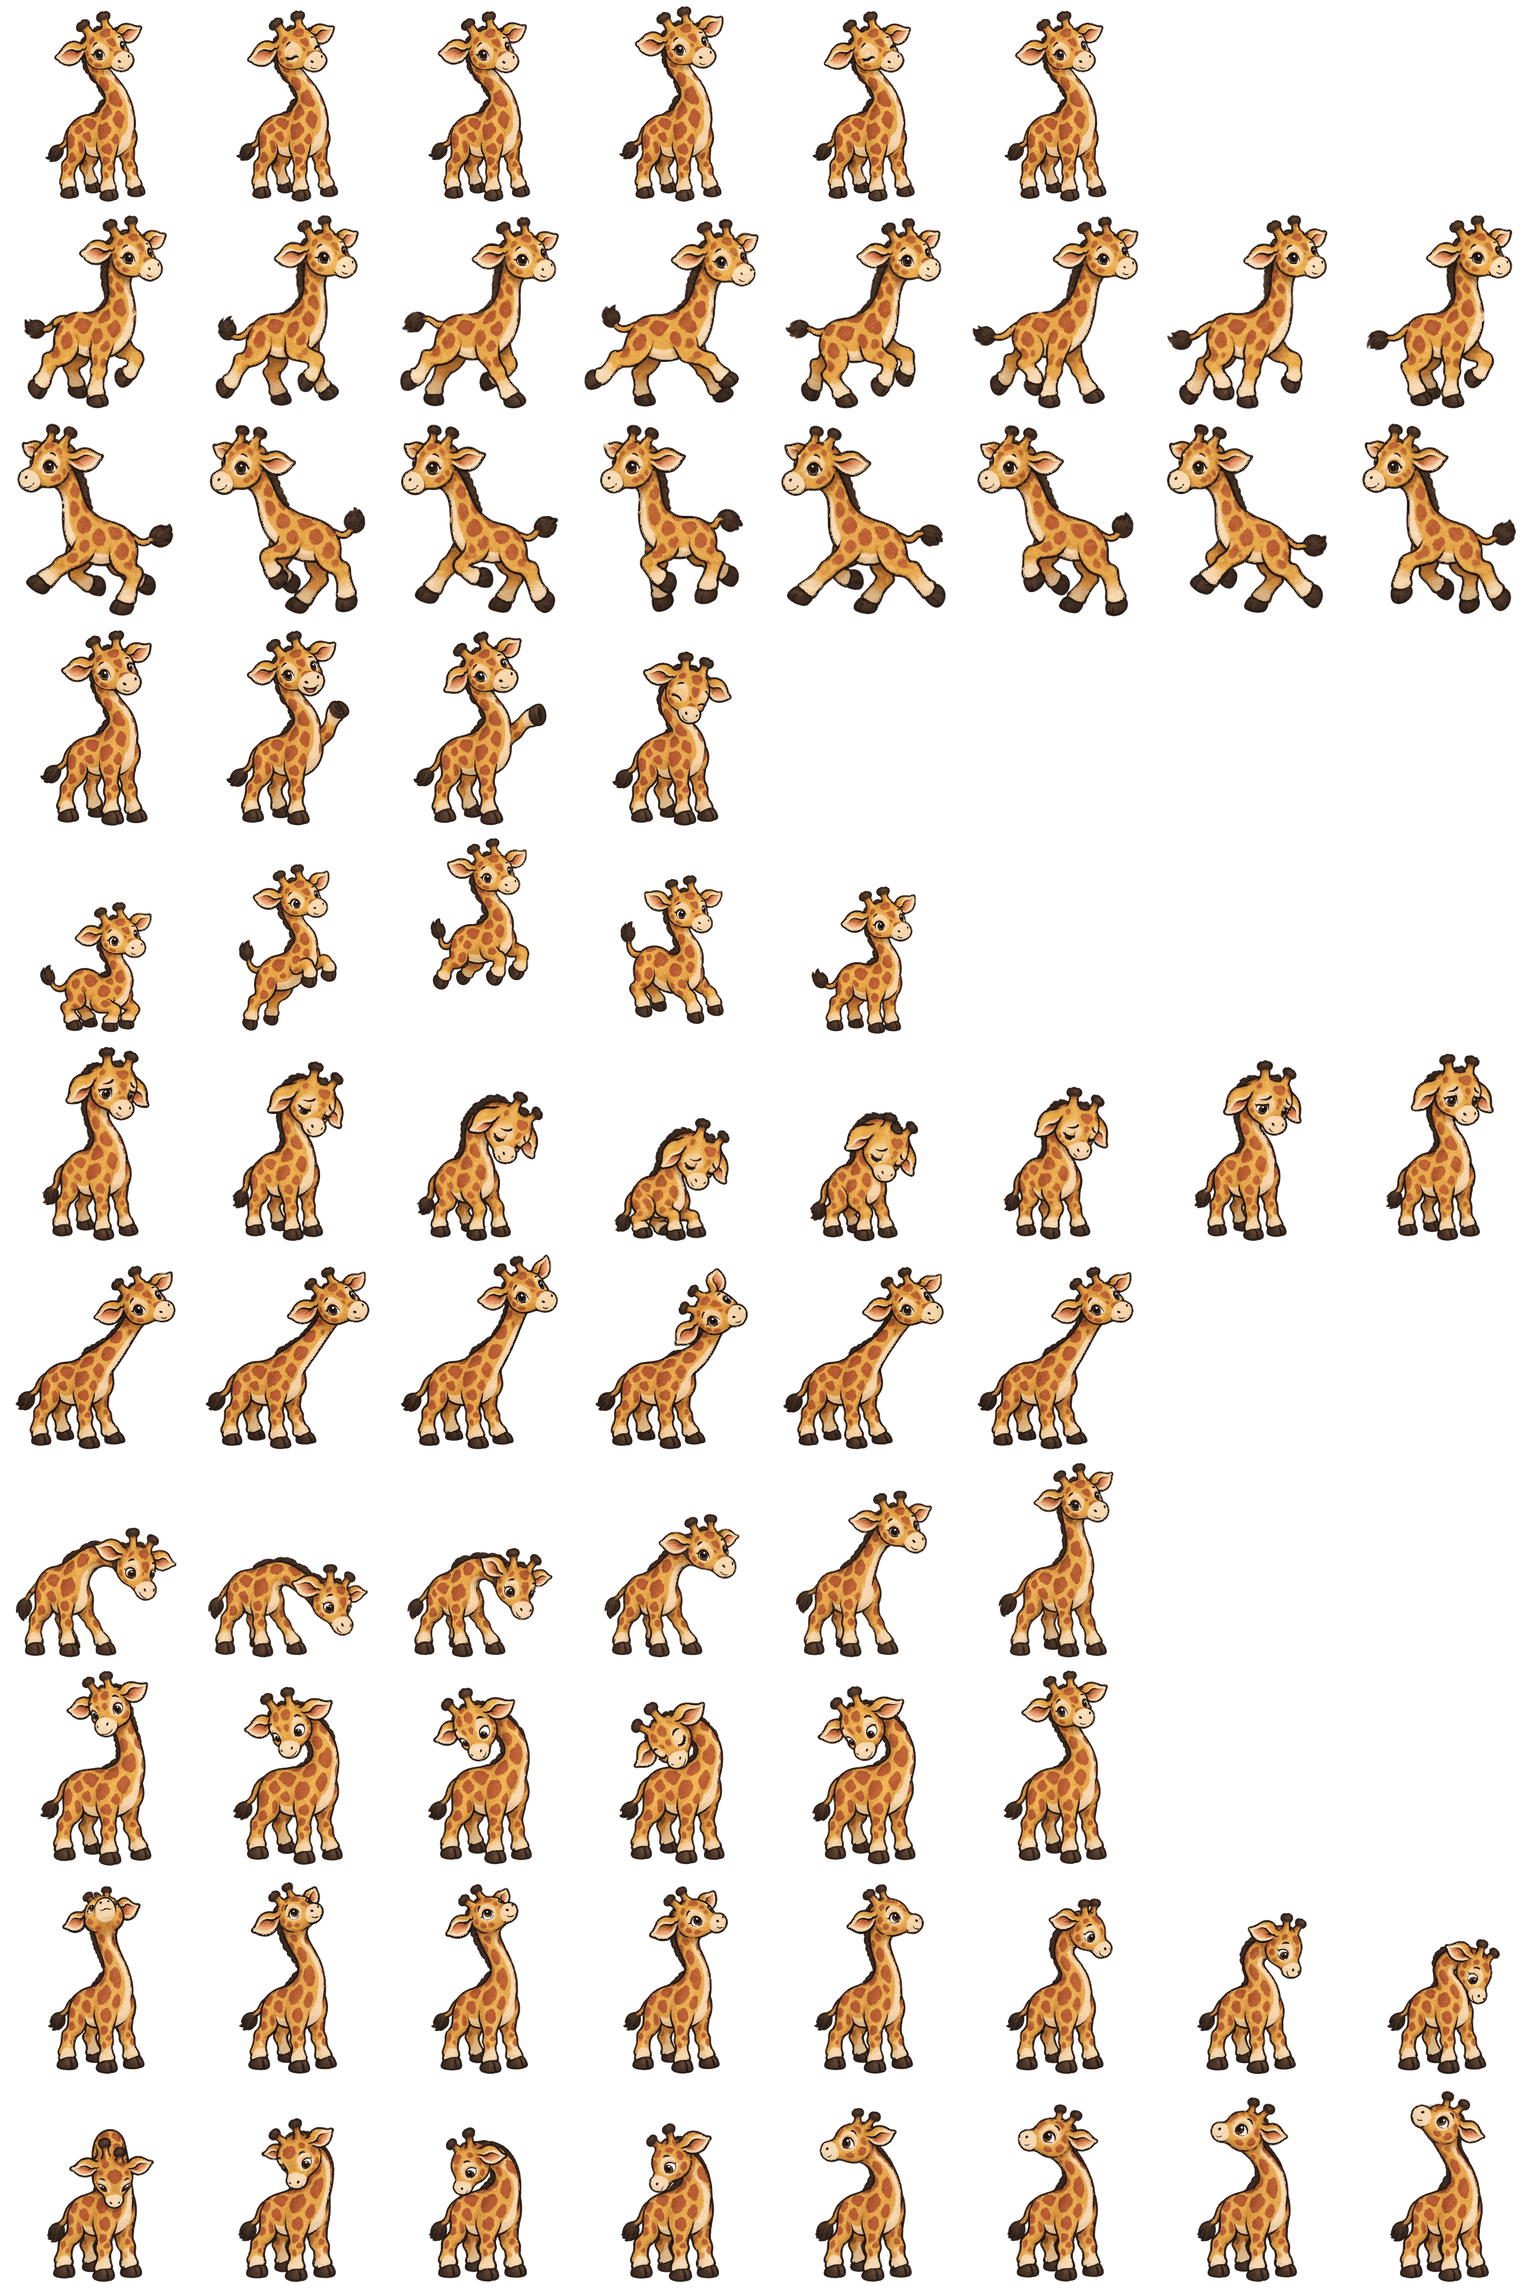
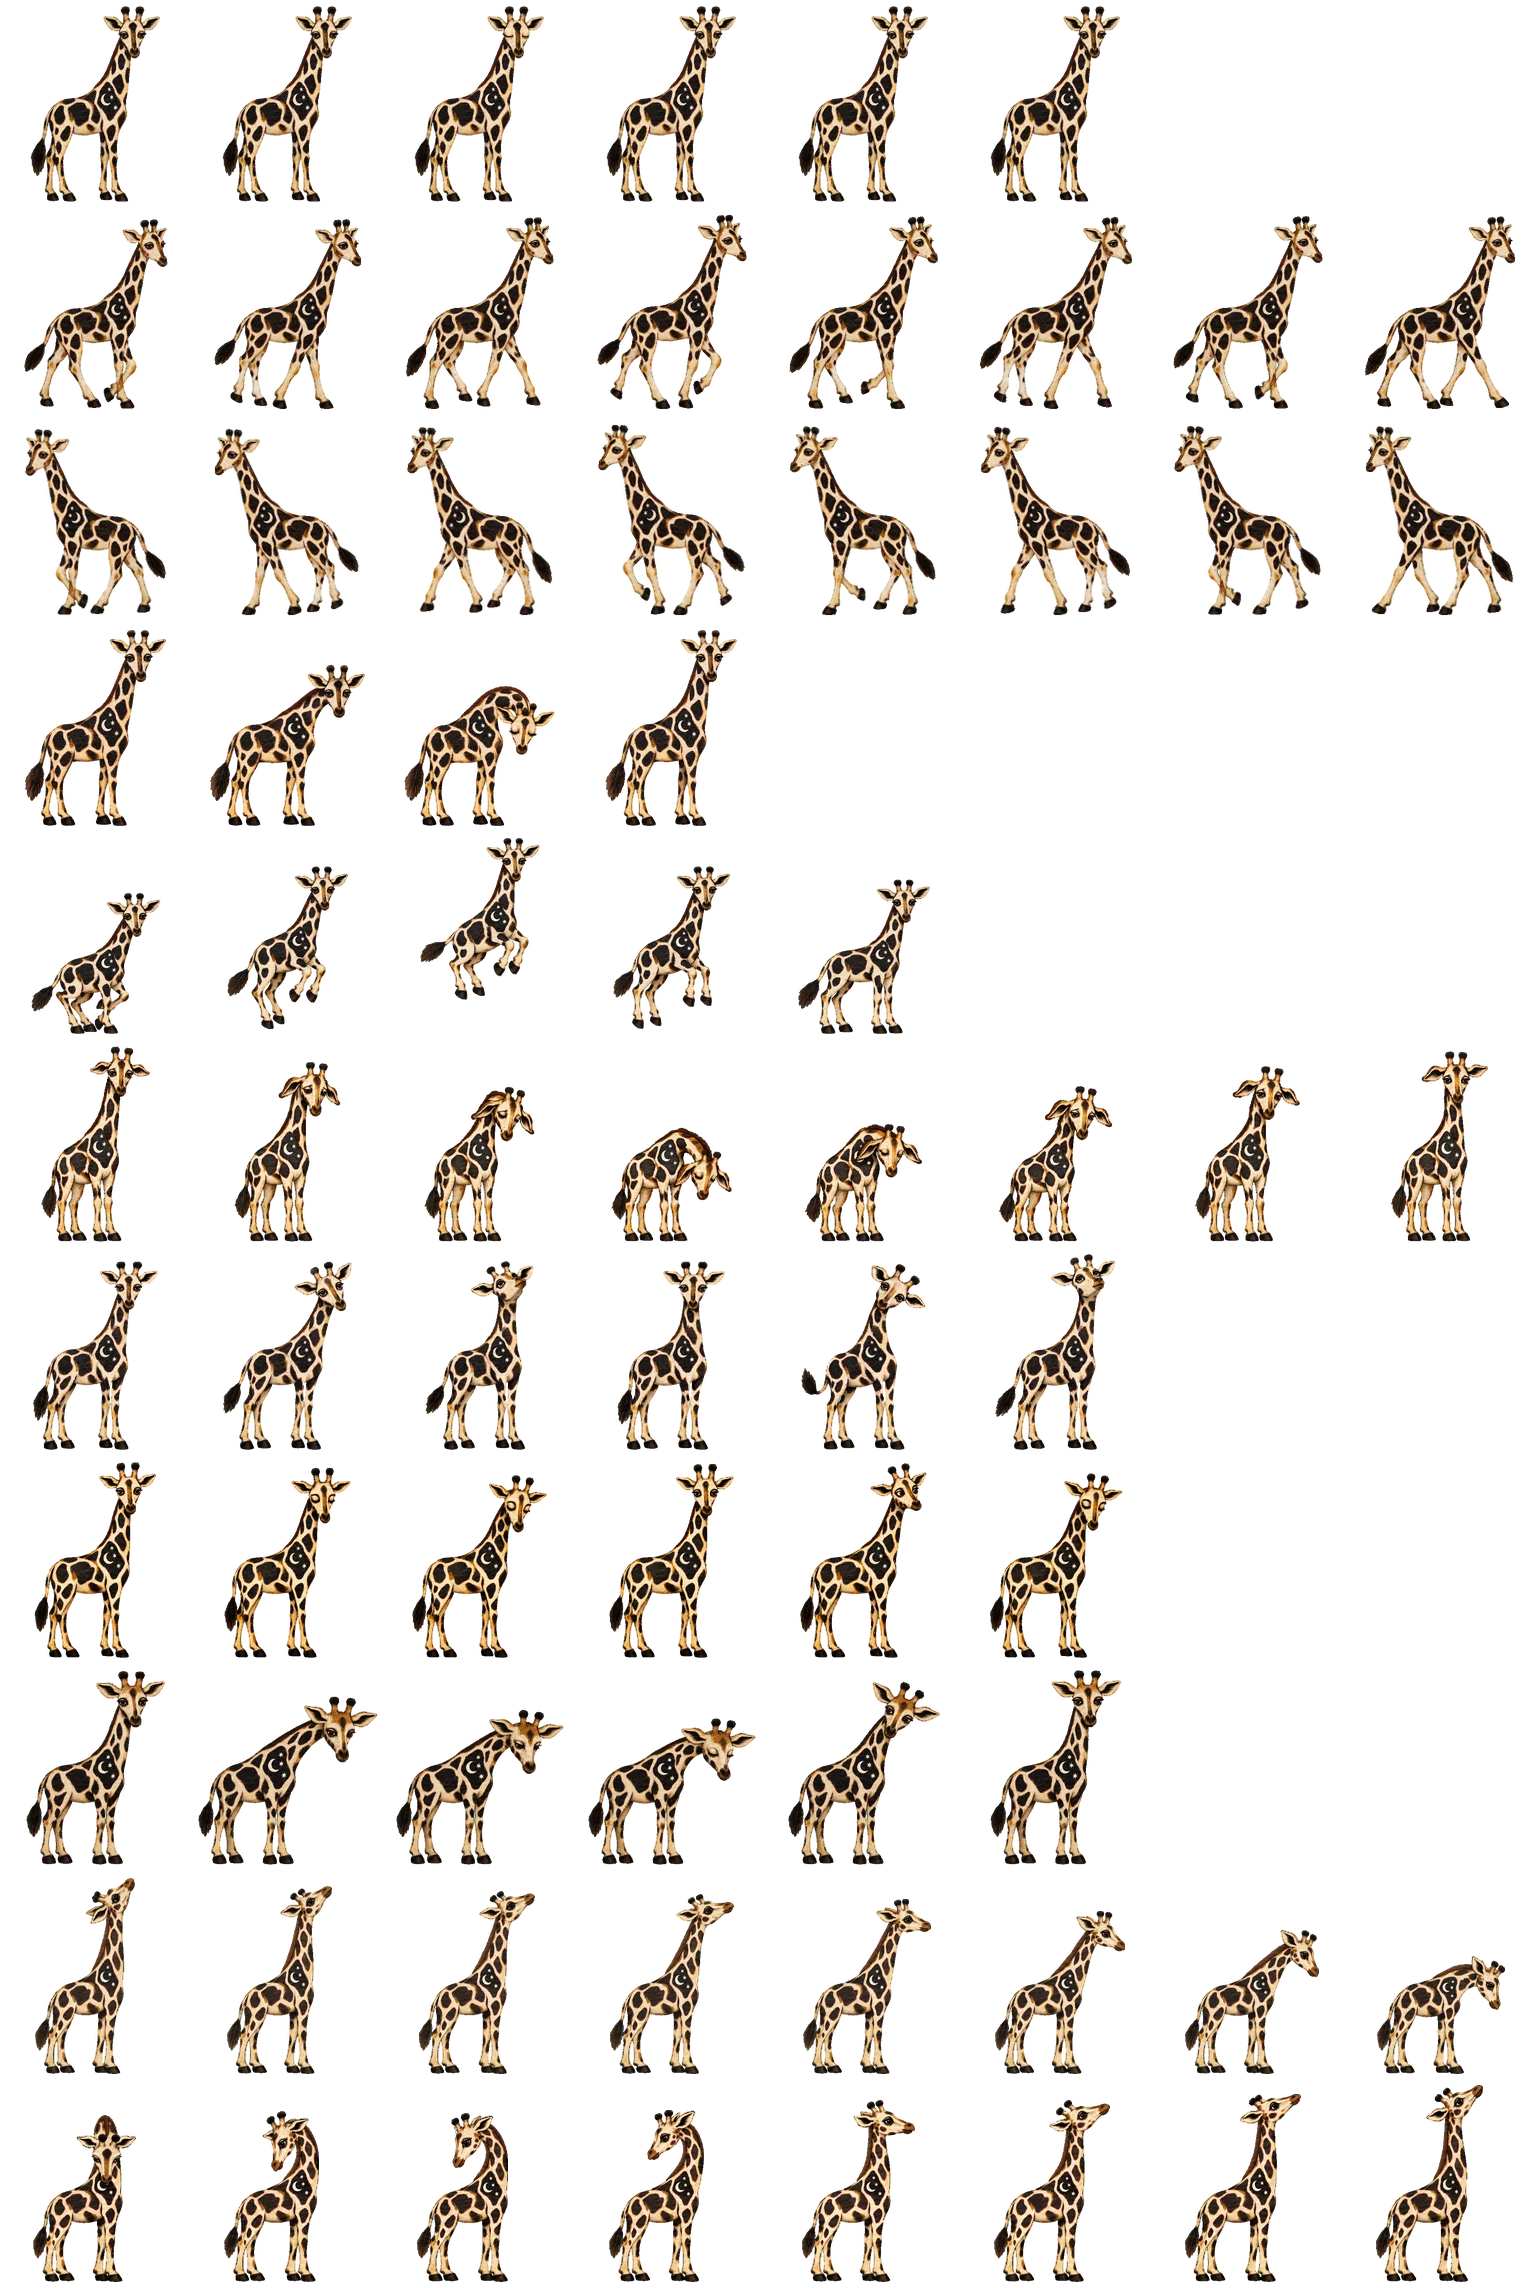
Pets: Niko redrawn as Pirosmani painted [skip ci]
Paul signed off the sheet (P1): a cream-white giraffe on black oilcloth, the
black left showing as his patches, a crescent and stars on his shoulder; the
idle calmed to one blink after "He's kinda tweaking". Lossy WebP q88, alpha
bit-identical. pet-metrics.json and the making-of golden regenerated.

diff --git a/docs/marginarium-pets.md b/docs/marginarium-pets.md
@@ -174,12 +174,15 @@ waving cells at native size and 5x, on white and dark, showed no banding, halo o
[6 lines of base64/hex data omitted]
 
 The Glassblower's redraw (Paul: "Both good") replaced the factory's droplet the same day: a
-clearer drop with a curling tip and a warm light inside. The twenty-four sheets total
-**19,657,940 bytes (18.75 MiB)** of the 24 MiB budget. Dino's and the Glassblower's first sheets,
-in the table above, no longer ship. The new ones fill more of their cells than the
+clearer drop with a curling tip and a warm light inside. Niko followed, painted the way Pirosmani painted animals: house paint on black oilcloth, the black
+left showing as his patches, a crescent and stars on his shoulder (Paul: "Grounding them in the actual
+techniques their namesake used is the right method here"). The twenty-four sheets total
+**19,421,260 bytes (18.52 MiB)** of the 24 MiB budget. Dino's, the Glassblower's and Niko's
+first sheets, in the table above, no longer ship. The new ones fill more of their cells than the
 factory's nineteen (top 6 and foot 201 in `pet-metrics.json`, as the Baba Yaga's already did),
 so they stand a little larger beside them.
